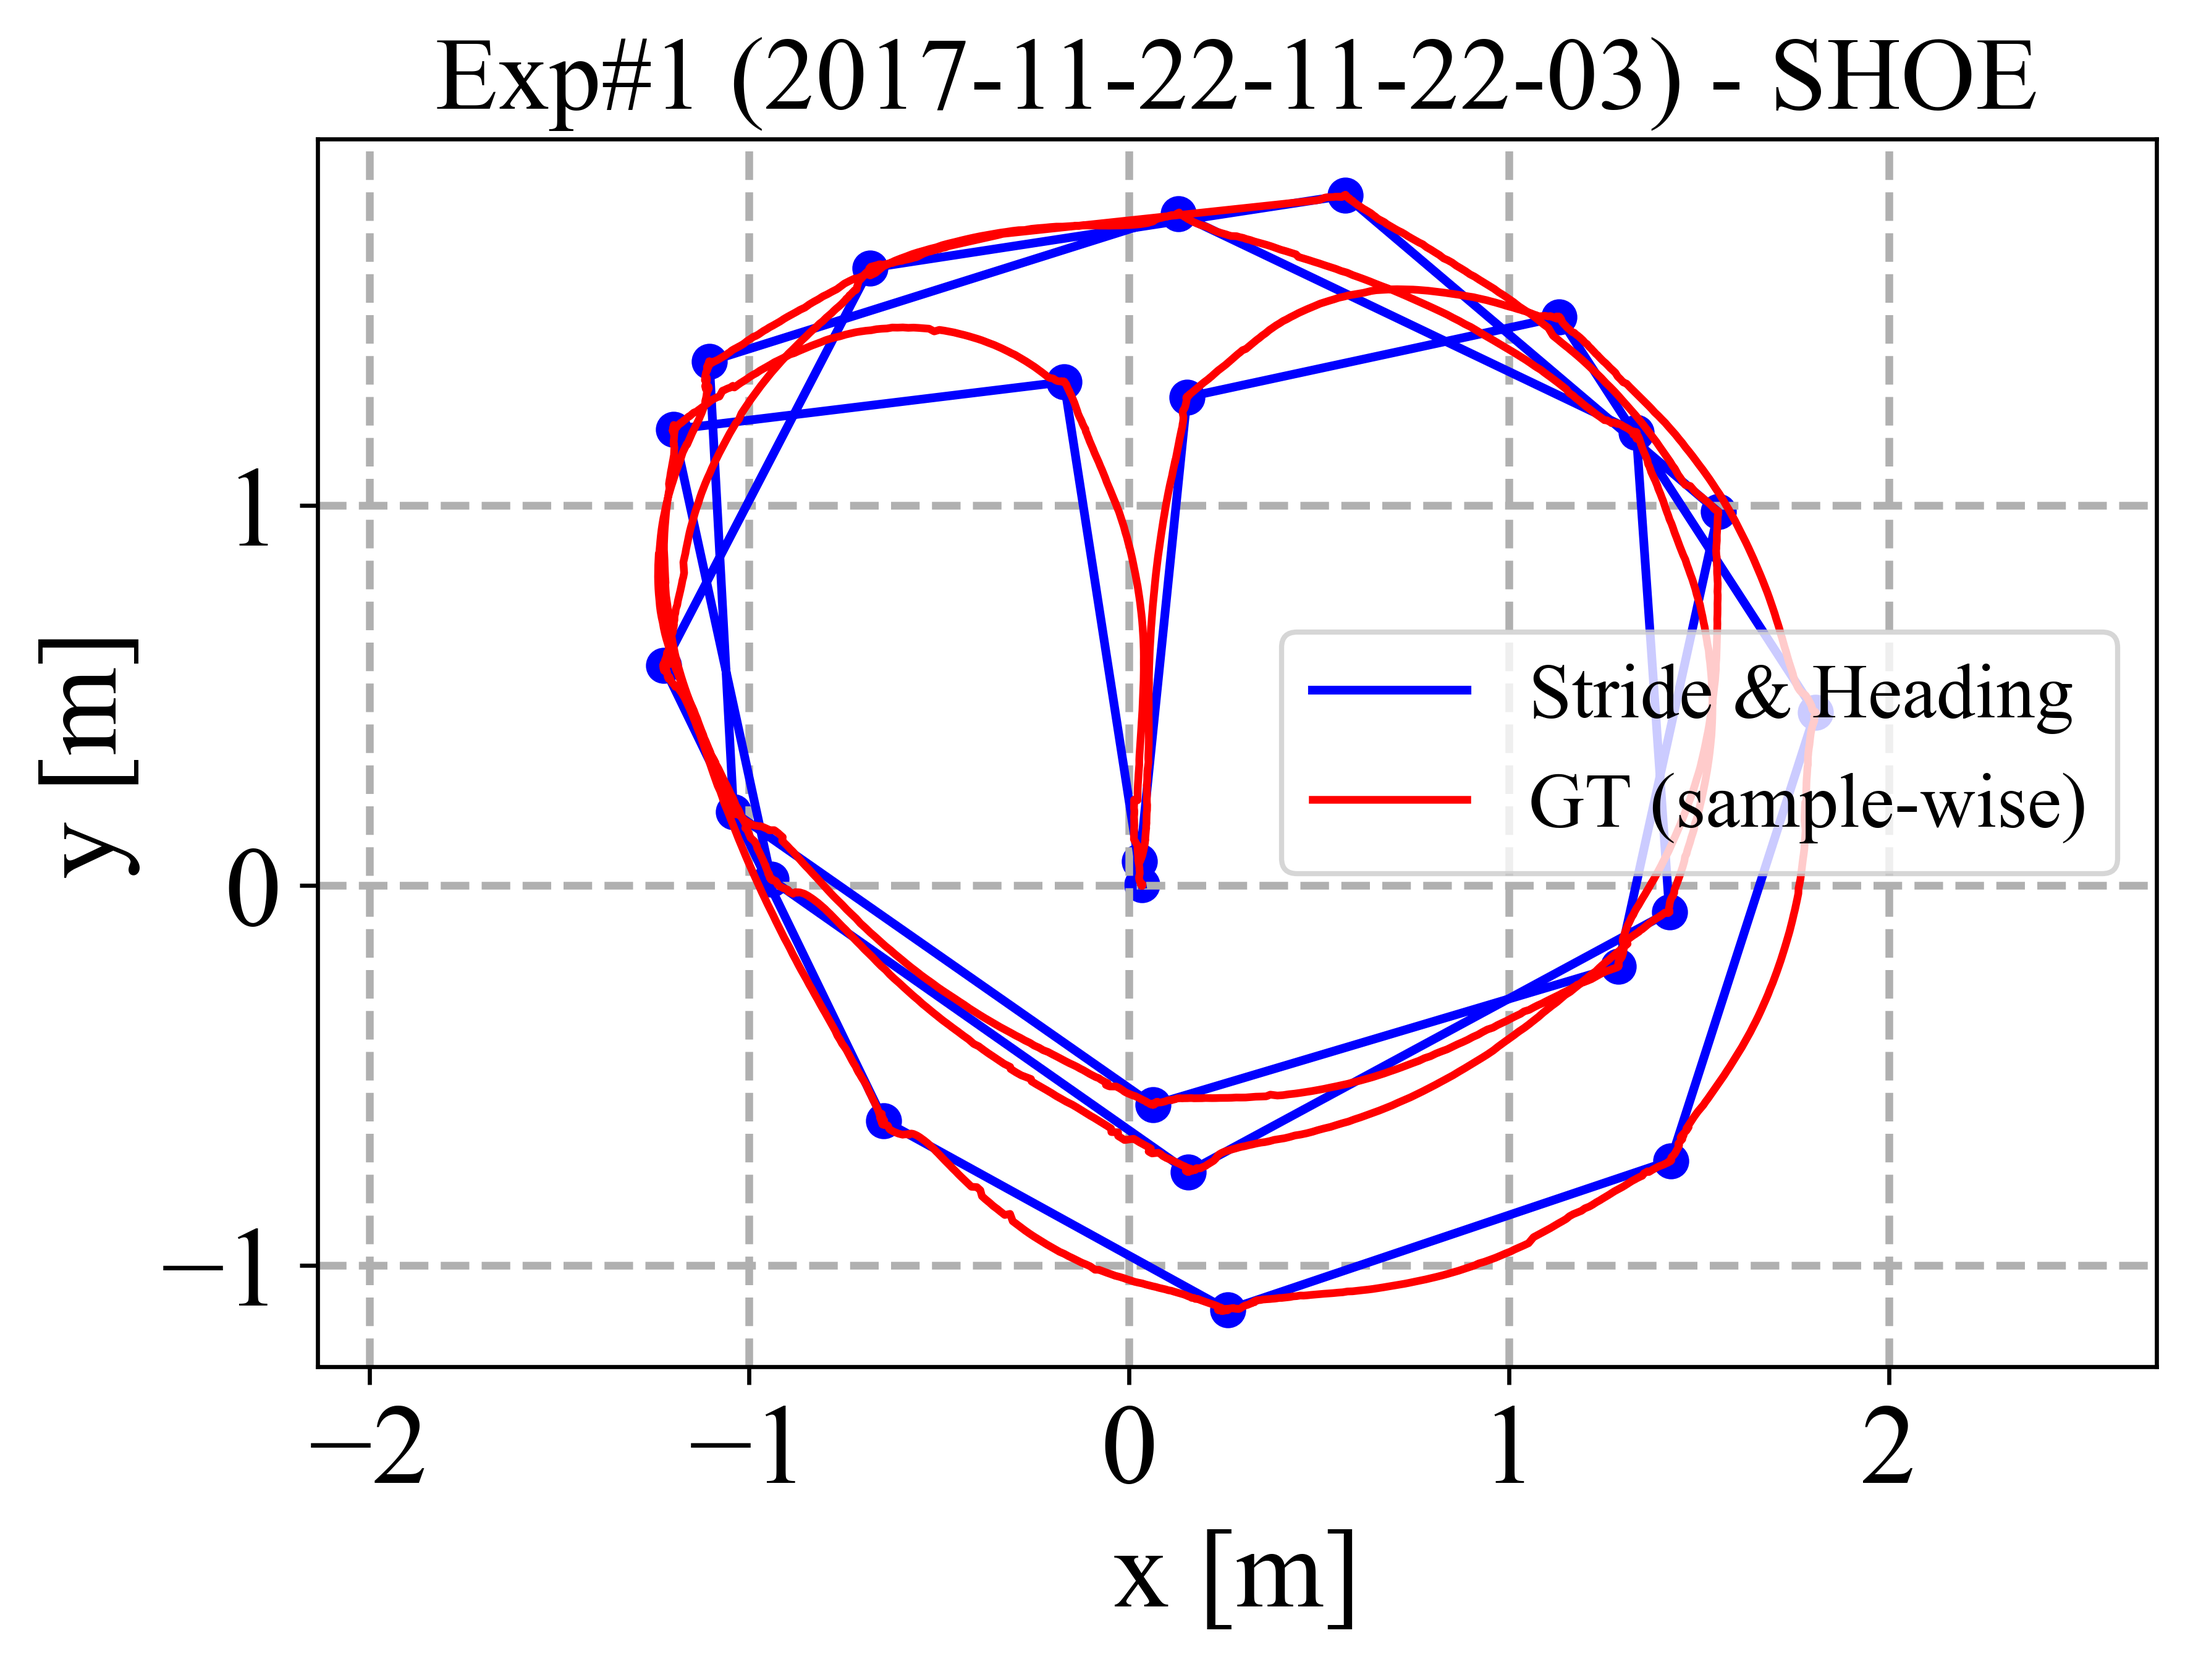
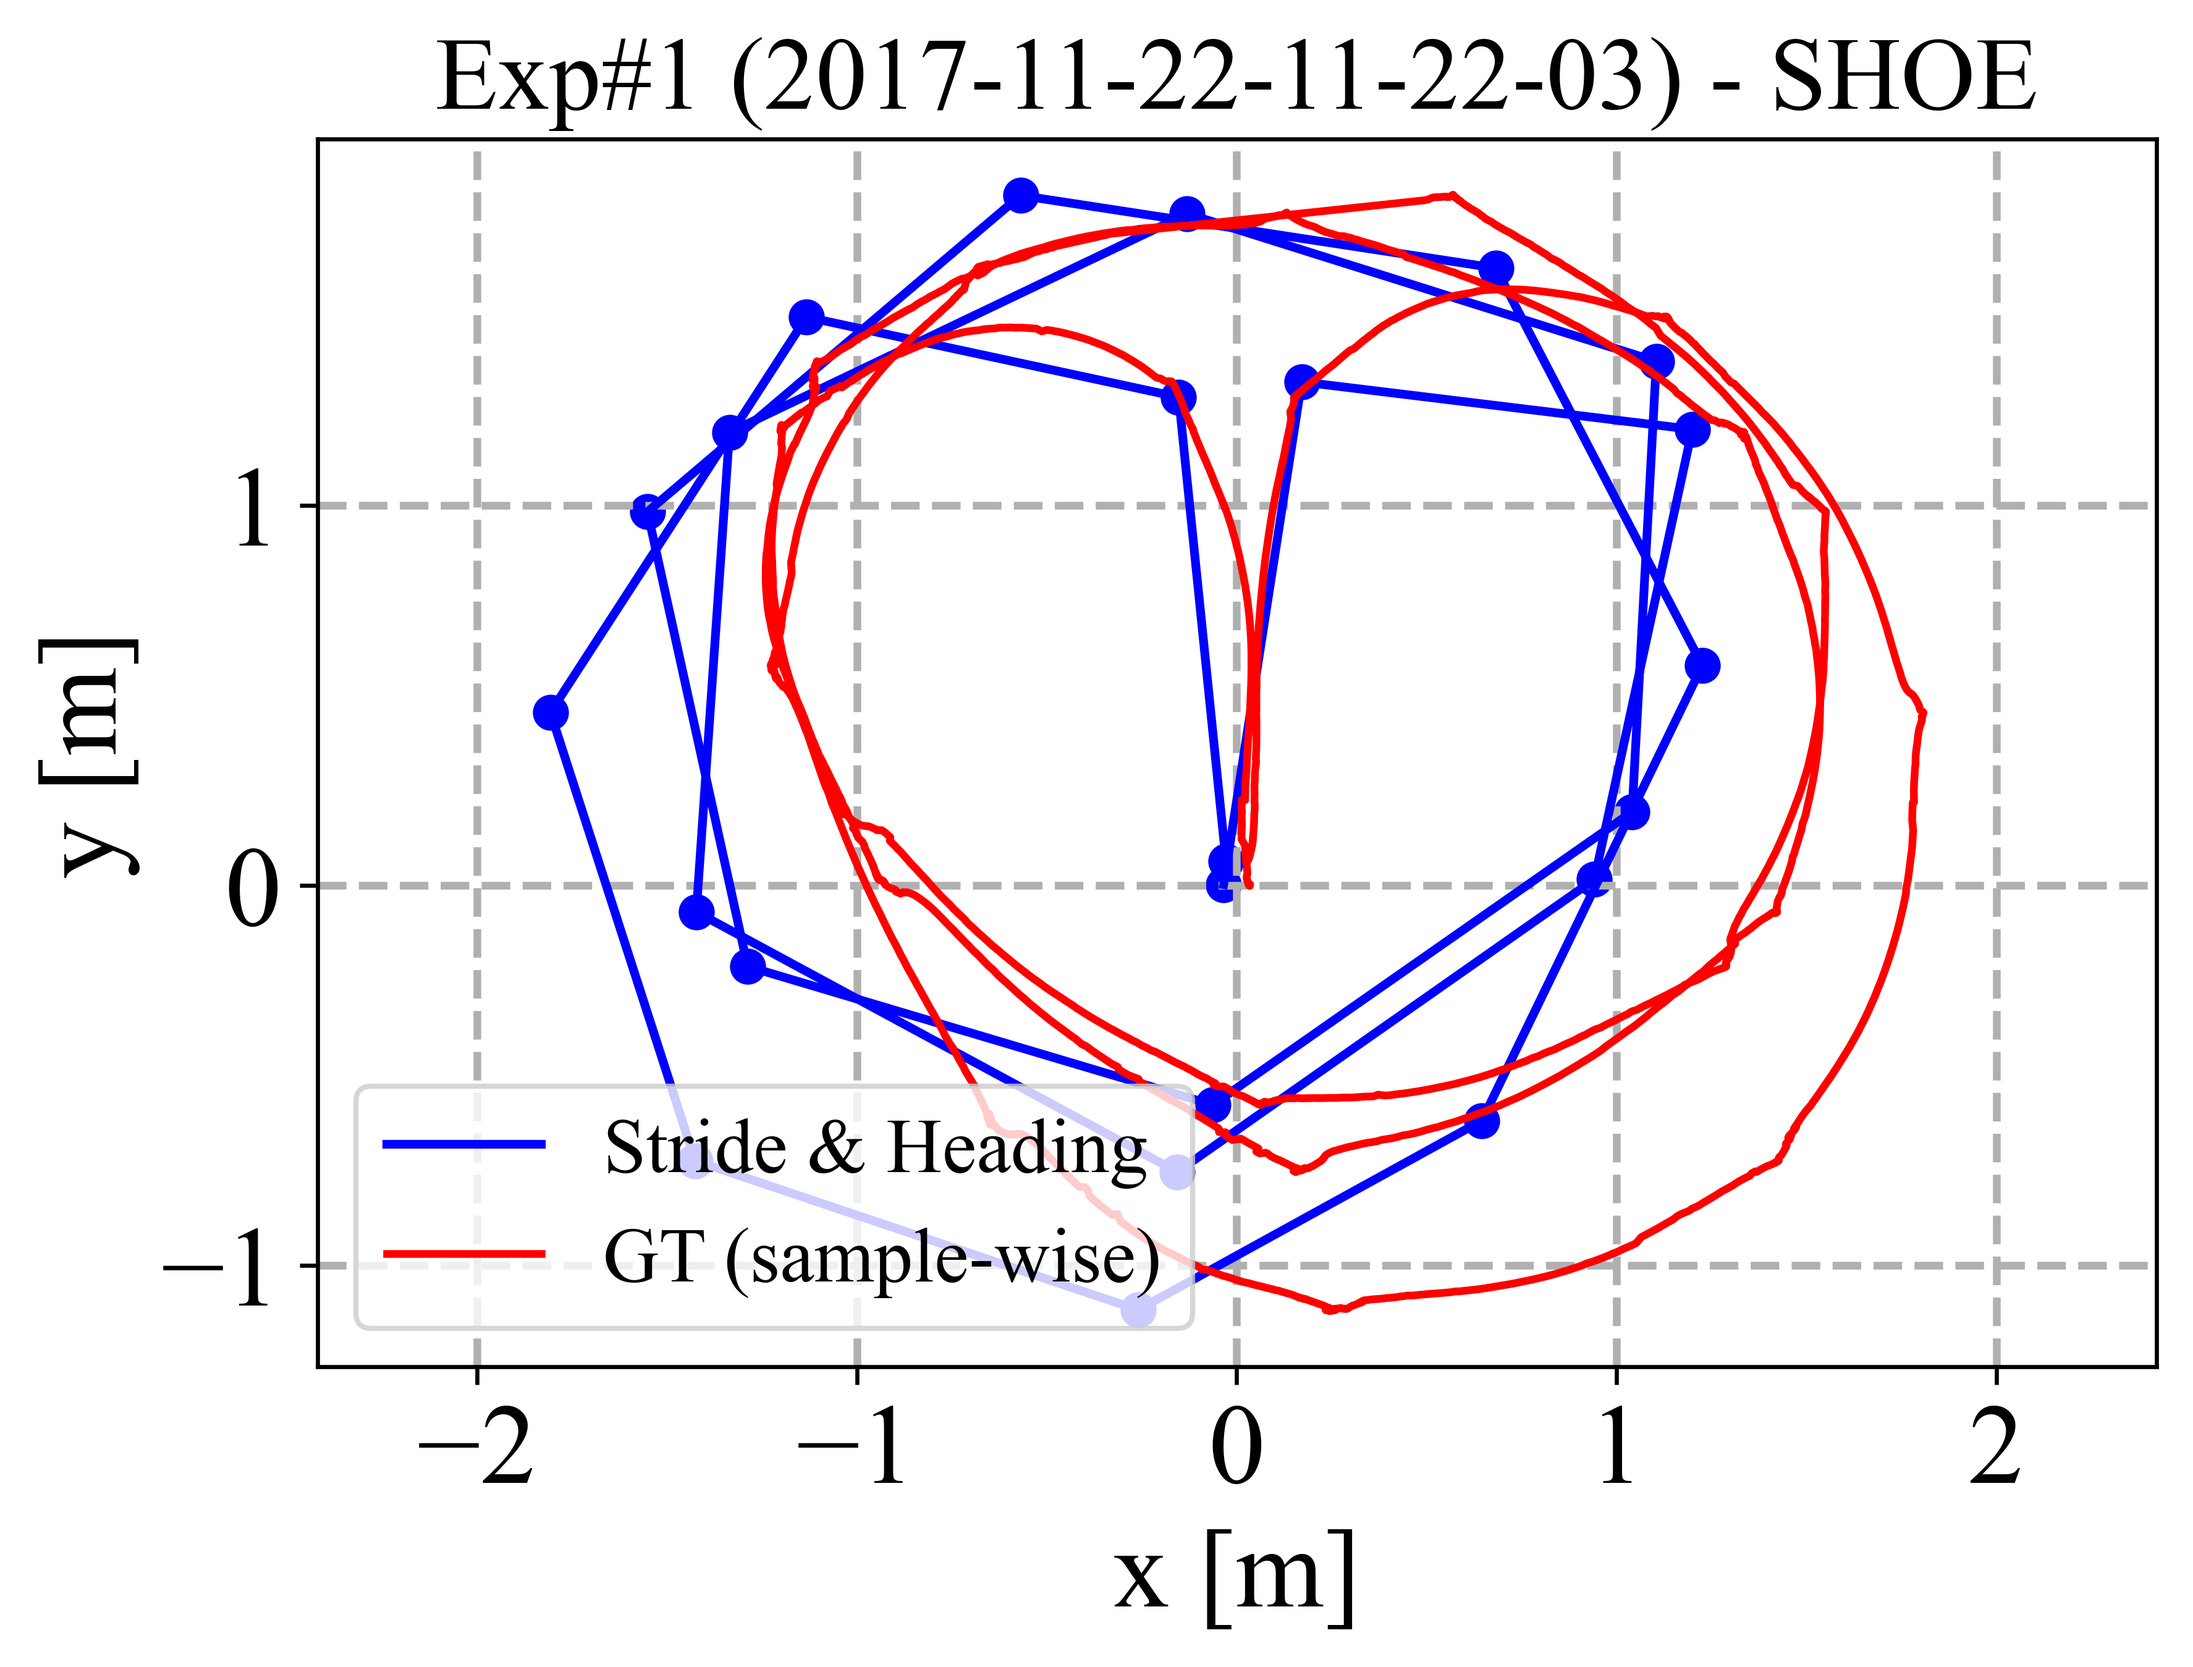
experiment 51 zv detector change is documented

diff --git a/vicon_bipedal_locomotion_data_correction.py b/vicon_bipedal_locomotion_data_correction.py
@@ -21,6 +21,7 @@ logging.basicConfig(level=logging.INFO, format='%(message)s',
                     handlers=[logging.FileHandler(log_file), logging.StreamHandler()])
 
 # Detector thresholds. Detector 16 is changed from MBGTD to ARED
+# 51st experiment opt detector changed from MBGTD to VICON
 detector = ['shoe', 'ared', 'shoe', 'shoe', 'shoe', 'ared', 'shoe', 'shoe',
             'vicon', 'shoe', 'shoe', 'vicon', 'vicon', 'shoe', 'vicon', 'ared',
             'shoe', 'shoe', 'ared', 'vicon', 'shoe', 'shoe', 'vicon', 'shoe',
@@ -63,14 +64,15 @@ def reconstruct_trajectory(displacements, heading_changes, initial_position):
         trajectory.append(new_position)
         current_heading += heading_changes[i]
 
+    # trajectory[:, 0] = -trajectory[:, 0] # change made by mtahakoroglu to match with GT alignment
     return np.array(trajectory)
 
 i = 0  # experiment index
-# training_data_tag = [0]*12
-# training_data_tag.append(1)
-training_data_tag = [1, 1, 1, -1, 1, -1, 1, 1, 1, 1, -1, 1, 0, 1, 1, 1, 1, -1, 1, 1, 
-                    1, 1, 1, 1, 1, 1, -1, 1, 1, -1, 1, -1, 1, 1, 1, -1, 1, -1, 1, 1, 
-                    1, 1, -1, 1, 1, 1, 0, 0, -1, 0, 1, 1, 1, 1, 0, 1]
+training_data_tag = [1]*5
+training_data_tag.append(1)
+# training_data_tag = [1, 1, 1, -1, 1, -1, 1, 1, 1, 1, -1, 1, 0, 1, 1, 1, 1, -1, 1, 1, 
+#                     1, 1, 1, 1, 1, 1, -1, 1, 1, -1, 1, -1, 1, 1, 1, -1, 1, -1, 1, 1, 
+#                     1, 1, -1, 1, 1, 1, 0, 0, -1, 0, 1, 1, 1, 1, 0, 1]
 corrected_data_index = [4, 6, 11, 18, 27, 30, 32, 36, 38, 43, 49] # corrected experiment indexes
 nGT = [22, 21, 21, 18, 26, 24, 18, 20, 28, 35, 29, 22, 30, 34, 24, 36, 20, 15, 10, 33, 
        22, 19, 13, 16, 17, 21, 20, 28, 18, 12, 13, 26, 34, 25, 24, 24, 43, 42, 15, 12, 
@@ -101,7 +103,7 @@ for file in vicon_data_files:
         k = 75 # temporal window size for checking if detected strides are too close or not
         if i+1 == 54: # remove false positive by changing filter size for experiment 54
             k = 95
-        # elif i+1 == 13:
+        # elif i+1 == 13: # not considered as part of training data due to sharp 180 degree changes in position
         #     k = 85
         zv_filtered, n, strideIndex = heuristic_zv_filter_and_stride_detector(zv, k)
         # zv_filtered = medfilt(zv_filtered, 15)
@@ -123,6 +125,7 @@ for file in vicon_data_files:
         plt.figure()
         visualize.plot_topdown([reconstructed_traj, gt[:, :2]], title=f"Exp#{i+1} ({base_filename}) - {detector[i].upper()}", 
                                legend=['Stride & Heading', 'GT (sample-wise)'])
+        # to visualize selected stides from the experiment of interest, change the parameters below
         # if i+1==49:
         #     # plt.plot(gt[-5:,0], gt[-5:,1], c='r')
         #     # plt.scatter(-reconstructed_traj[-3:, 0], reconstructed_traj[-5:, 1], c='b', marker='x')
@@ -134,7 +137,7 @@ for file in vicon_data_files:
         #     # plt.scatter(-reconstructed_traj[0:hms-1, 0], reconstructed_traj[0:hms-1, 1], c='b', marker='x')
         #     # plt.scatter(-reconstructed_traj[hms-1, 0], reconstructed_traj[hms-1, 1], c='g', marker='o')
         # else:    
-        plt.scatter(-reconstructed_traj[:, 0], reconstructed_traj[:, 1], c='b', marker='o')
+        plt.scatter(reconstructed_traj[:, 0], reconstructed_traj[:, 1], c='b', marker='o')
         plt.savefig(os.path.join(output_dir, f'trajectory_exp_{i+1}.png'), dpi=600, bbox_inches='tight')
 
         # plotting vertical trajectories
@@ -219,7 +222,7 @@ for file in vicon_data_files:
             plt.figure()
             visualize.plot_topdown([reconstructed_traj, gt[:, :2]], title=f"Exp#{i+1} ({base_filename}) - Combined",
                                 legend=['Stride & Heading', 'GT (sample-wise)']) 
-            plt.scatter(-reconstructed_traj[:, 0], reconstructed_traj[:, 1], c='b', marker='o')
+            plt.scatter(reconstructed_traj[:, 0], reconstructed_traj[:, 1], c='b', marker='o')
             plt.savefig(os.path.join(output_dir, f'trajectory_exp_{i+1}_corrected.png'), dpi=600, bbox_inches='tight')
 
             # Plotting the zero velocity detection for the combined ZV detector without stride indices

diff --git a/ins_tools/visualize.py b/ins_tools/visualize.py
@@ -12,11 +12,11 @@ def plot_topdown(traj, trigger_ind=None, gt_method = 'dense', title=None, save_d
     colour = ['blue', 'green', 'darkorange', 'gold']
     for i in range(len(traj)-1):
         if trigger_ind is not None:
-            plt.plot(-traj[i][:,0], traj[i][:,1], '-gD', markevery=trigger_ind, linewidth = 1.7, color=colour[i], markersize=5, markeredgewidth=0.005, markeredgecolor='black')
+            plt.plot(traj[i][:,0], traj[i][:,1], '-gD', markevery=trigger_ind, linewidth = 1.7, color=colour[i], markersize=5, markeredgewidth=0.005, markeredgecolor='black')
         else:
-            plt.plot(-traj[i][:,0], traj[i][:,1], linewidth = 1.7, color=colour[i])
+            plt.plot(traj[i][:,0], traj[i][:,1], linewidth = 1.7, color=colour[i])
     if gt_method == 'sparse':
-        plt.scatter(-traj[-1][:,0], traj[-1][:,1], s=13, color='red',zorder=len(traj)+1)
+        plt.scatter(traj[-1][:,0], traj[-1][:,1], s=13, color='red',zorder=len(traj)+1)
     elif gt_method == 'none':
         gt=None
     else:
